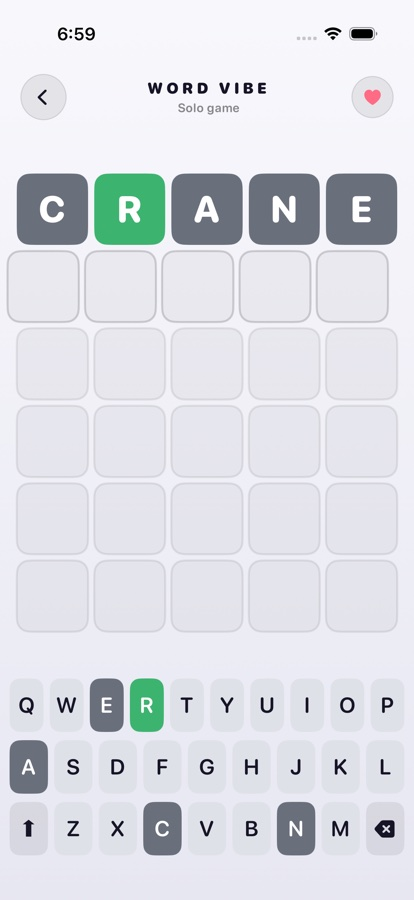
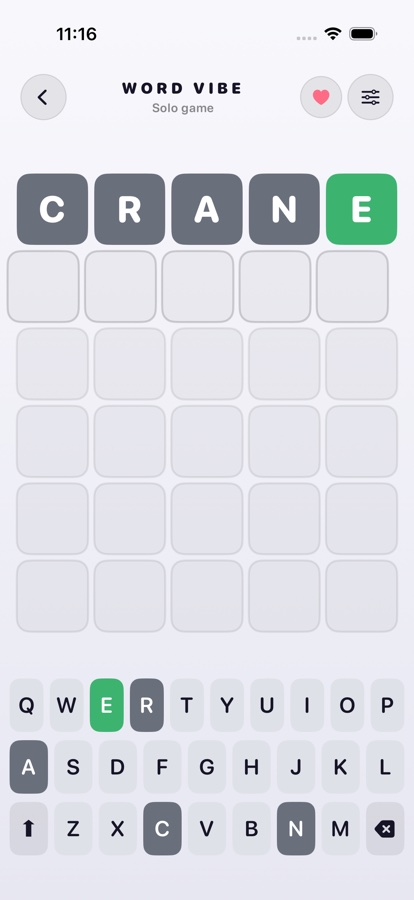
Refresh the screenshots of the games that gained a settings button
Word Vibe, Vibe Pairings and Similar Vibe had no settings button on the landing
page's pictures — Word Vibe and Vibe Pairings had none at all until this change,
and Similar Vibe's was reachable only from its lobby. Recaptured from the
simulator, both appearances, and the App Store set reshot at 6.9" and 13".

`?v=` goes to 5 for the eight pictures that changed, because Hosting serves these
with a week's `max-age`. Two files nothing referenced — `vibewords-board-*` and
`vibeblurt-lobby-*` — are gone rather than left to age.

Checked: every size is what the page expects (414x900) or Apple accepts
(1320x2868, 2064x2752), the live URLs return the new bytes, and the SEO and App
Store guards pass.

diff --git a/site/index.html b/site/index.html
@@ -284,8 +284,8 @@
 </div>
 
     <div class="game__shots">
-      <div class="phone reveal-up"><picture><source srcset="assets/screens/vibewords-solved-dark.jpg?v=4" media="(prefers-color-scheme: dark)" /><img src="assets/screens/vibewords-solved-light.jpg?v=4" alt="A Word Vibe board with coloured hints and a tinted keyboard" width="414" height="900" loading="lazy" decoding="async" /></picture></div>
-      <div class="phone phone--peek reveal-up" data-delay="1"><picture><source srcset="assets/screens/vibewords-shared-dark.jpg?v=4" media="(prefers-color-scheme: dark)" /><img src="assets/screens/vibewords-shared-light.jpg?v=4" alt="A shared Word Vibe game showing the code to share" width="414" height="900" loading="lazy" decoding="async" /></picture></div>
+      <div class="phone reveal-up"><picture><source srcset="assets/screens/vibewords-solved-dark.jpg?v=5" media="(prefers-color-scheme: dark)" /><img src="assets/screens/vibewords-solved-light.jpg?v=5" alt="A Word Vibe board with coloured hints and a tinted keyboard" width="414" height="900" loading="lazy" decoding="async" /></picture></div>
+      <div class="phone phone--peek reveal-up" data-delay="1"><picture><source srcset="assets/screens/vibewords-shared-dark.jpg?v=5" media="(prefers-color-scheme: dark)" /><img src="assets/screens/vibewords-shared-light.jpg?v=5" alt="A shared Word Vibe game showing the code to share" width="414" height="900" loading="lazy" decoding="async" /></picture></div>
     </div>
   </div>
 </section>
@@ -348,8 +348,8 @@
     </div>
 
     <div class="game__shots">
-      <div class="phone reveal-up"><picture><source srcset="assets/screens/vibetrio-board-dark.jpg?v=4" media="(prefers-color-scheme: dark)" /><img src="assets/screens/vibetrio-board-light.jpg?v=4" alt="A Vibe Pairings table of twelve charcuterie boards" width="414" height="900" loading="lazy" decoding="async" /></picture></div>
-      <div class="phone phone--peek reveal-up" data-delay="1"><picture><source srcset="assets/screens/vibetrio-leaderboard-dark.jpg?v=4" media="(prefers-color-scheme: dark)" /><img src="assets/screens/vibetrio-leaderboard-light.jpg?v=4" alt="The Vibe Pairings end-of-game leaderboard" width="414" height="900" loading="lazy" decoding="async" /></picture></div>
+      <div class="phone reveal-up"><picture><source srcset="assets/screens/vibetrio-board-dark.jpg?v=5" media="(prefers-color-scheme: dark)" /><img src="assets/screens/vibetrio-board-light.jpg?v=5" alt="A Vibe Pairings table of twelve charcuterie boards" width="414" height="900" loading="lazy" decoding="async" /></picture></div>
+      <div class="phone phone--peek reveal-up" data-delay="1"><picture><source srcset="assets/screens/vibetrio-leaderboard-dark.jpg?v=5" media="(prefers-color-scheme: dark)" /><img src="assets/screens/vibetrio-leaderboard-light.jpg?v=5" alt="The Vibe Pairings end-of-game leaderboard" width="414" height="900" loading="lazy" decoding="async" /></picture></div>
     </div>
   </div>
 </section>
